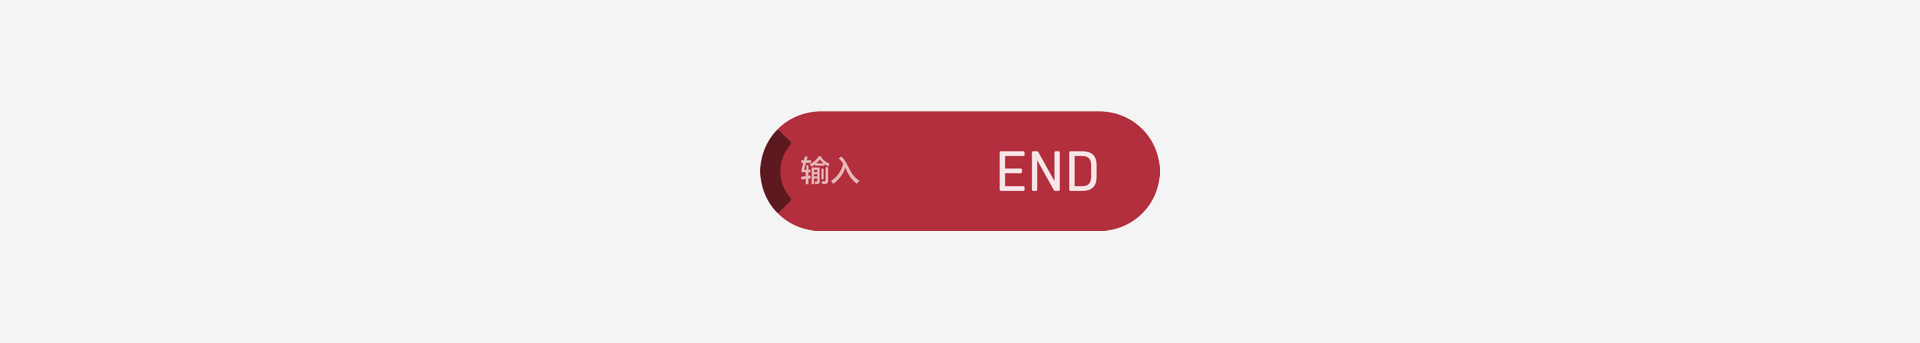
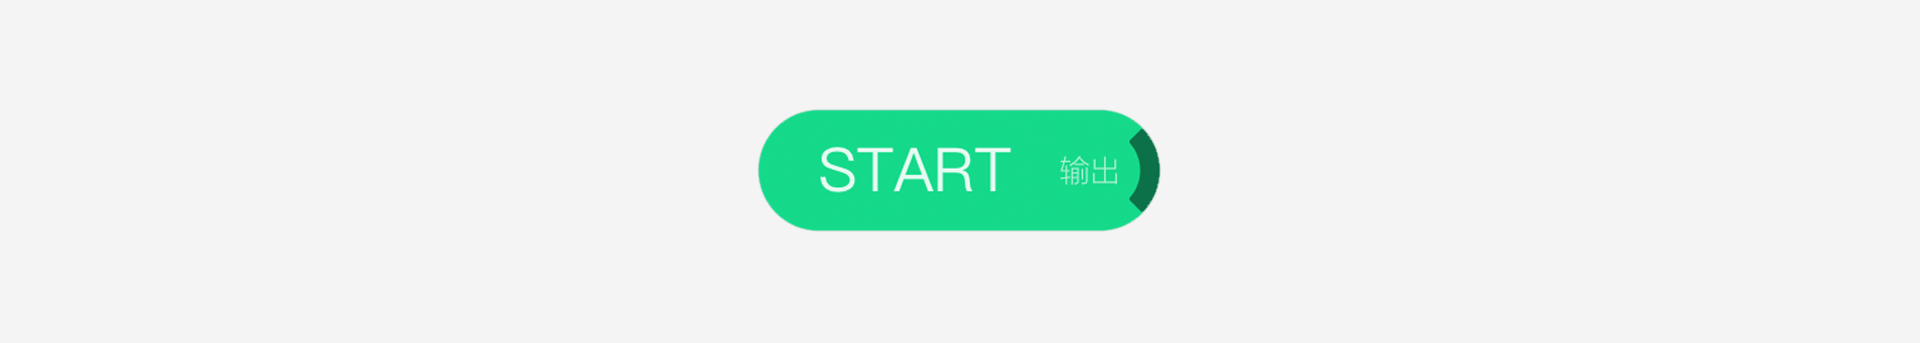
breakpoint

Changed region(s): [[0.375, 0.3207, 0.625, 0.6997]]

diff --git a/doc/zh-cn/10nodes/otherNodes/02breakpoint.md b/doc/zh-cn/10nodes/otherNodes/02breakpoint.md
@@ -11,7 +11,7 @@
 
 `中转节点`用于把连接到同一个节点的连线汇集在一起，先把这些连线一起连接到中转节点，然后把`中转节点`连接到后续节点，从而优化问卷连线的视觉效果。在连线比较复杂的情况下，添加`中转节点`可以让连线更加整洁。`中转节点`可以接受多个输入，只可以输出一次。和`中转节点`相连的连线都会变成直线。
 
-<img src='../assets/otherNodes/01start/node.png'>
+<img src='../assets/otherNodes/02breakpoint/node.png'>
 
 ## 添加中转节点
 按住`Alt`键同时点击连线，就可以在连线上添加一个`中转节点`。
